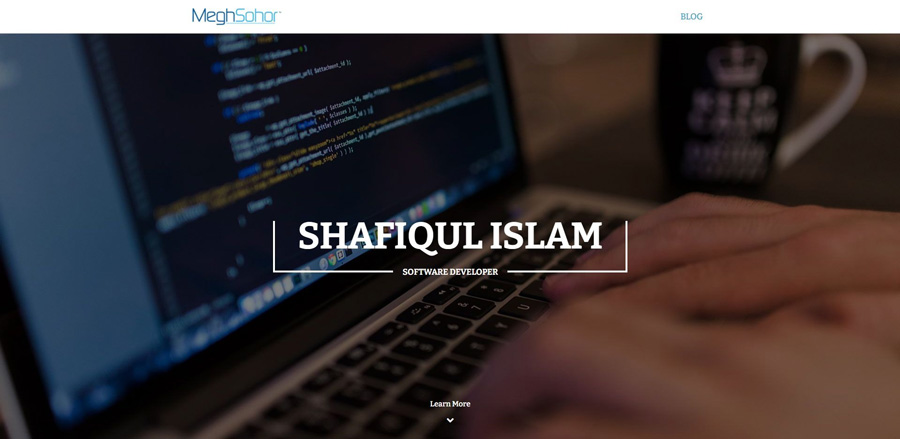
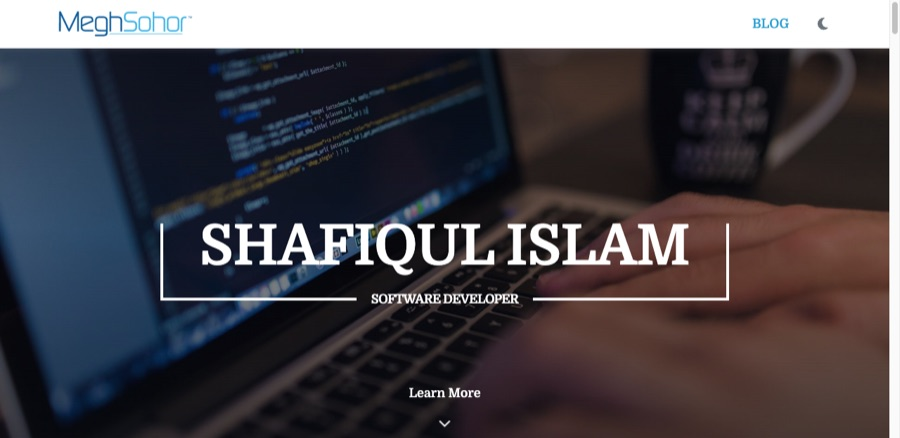
Refreshed the README bio, dark-mode description, and homepage screenshot

diff --git a/README.md b/README.md
@@ -10,7 +10,7 @@
 
 ***
 
-Hi, I am a Software Developer focused and specialized on the Front-End stacks. Experienced with HTML, CSS/SCSS, JavaScript, Typescript, jQuery, Angular, React, WordPress & PHP. I have created this blog to write posts on the Software Development things. I am also going to showcase my projects and my career here.
+Hi, I am an **AWS Certified Software Developer**. Since 2016 I have built enterprise applications and customer dashboards, A/B experiments for online shops, an audio streaming service, and event-driven backend services — working with HTML, CSS/SCSS, JavaScript/TypeScript, jQuery, Angular, React, Next.js, Node.js, PHP, Ruby on Rails, AWS, and more. Right now I am learning **Go** and building **agentic systems**. I created this blog to write posts on software development, and to showcase my projects and career.
 Checkout the live site here:
 ### [Live: MeghSohor Blog](https://meghsohor.dev/)
 
@@ -19,8 +19,8 @@ The site is developed in **Astro** with **Tailwind CSS** and here are some of th
 - **Blog page**: All the posts can be found in this page.
 - **Single Post page**: Clicking on a blog post will take to the single post page
 - **Post category page**: Clicking on a tag from a post will show the list of the posts under the same category
-- **Post search**: built into the blog listing — instant title and tag matching, no extra network requests
-- **Dark mode**: follows the system preference, with a manual light/system/dark toggle
+- **Post search**: built into the blog listing — client-side title and tag matching, no extra network requests
+- **Dark mode**: follows the device preference until you choose — a one-tap toggle, remembered across visits
 - **Agent friendly**: `/llms.txt`, `/llms-full.txt`, a `.md` version of every post, and JSON-LD structured data
 - **RSS feed** & **sitemap** generated on every build
 
@@ -29,7 +29,7 @@ The site is developed in **Astro** with **Tailwind CSS** and here are some of th
 ## The project is open!
 And I would like to help you if you want to use this project to build your personal blog and portfolio site. 
 
-### What are the benifits?
+### What are the benefits?
 
 - Multiple post types: blog, portfolio, job
 - Easy to create posts using **markdown** language (you can use this [**online editor**](https://pandao.github.io/editor.md/en.html) to write post in markdown language)
@@ -85,7 +85,7 @@ npm run preview
 * Github: [@meghsohor](https://github.com/meghsohor)
 * LinkedIn: [@meghsohor](https://linkedin.com/in/meghsohor)
 * StackOverflow: [@meghsohor](https://stackoverflow.com/users/7646942/shuvo)
-* Twitter: [@meghsohoror](https://twitter.com/meghsohor)
+* X (Twitter): [@meghsohor](https://twitter.com/meghsohor)
 
 ## 🤝 Contributing
 
